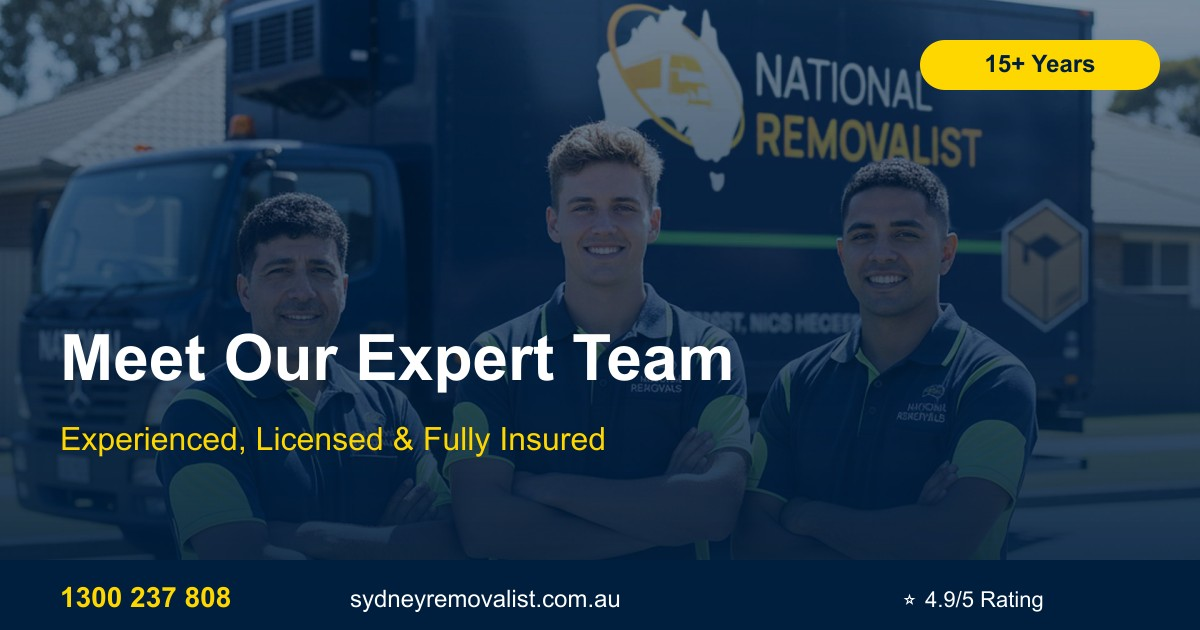
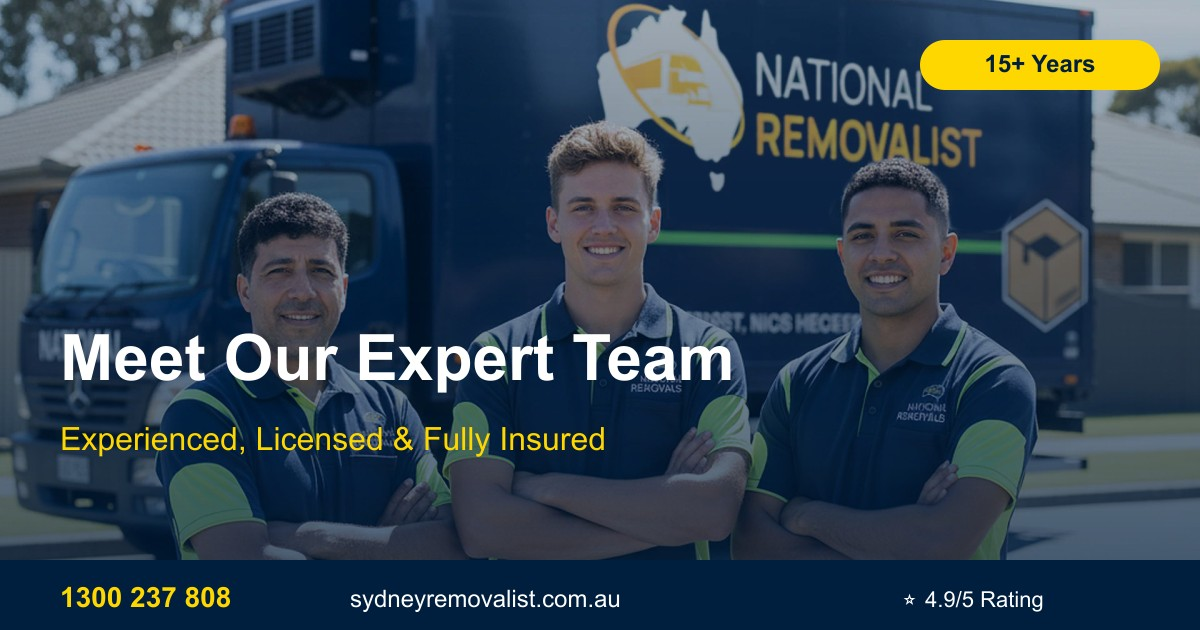
add og images

diff --git a/scripts/generate-blog-og.js b/scripts/generate-blog-og.js
@@ -1,0 +1,80 @@
+const sharp = require('sharp');
+const path = require('path');
+
+const OG_WIDTH = 1200;
+const OG_HEIGHT = 630;
+
+const COLORS = {
+  navy: '#001F3F',
+  yellow: '#FFD700',
+  white: '#FFFFFF'
+};
+
+async function generateBlogOG() {
+  const sourcePath = path.join(__dirname, '..', 'assets', 'removalist', '05.webp');
+  const outputPath = path.join(__dirname, '..', 'public', 'og-blog.jpg');
+
+  console.log('Generating og-blog.jpg...');
+
+  const svg = `
+    <svg width="${OG_WIDTH}" height="${OG_HEIGHT}">
+      <defs>
+        <linearGradient id="overlayGrad" x1="0%" y1="0%" x2="0%" y2="100%">
+          <stop offset="0%" style="stop-color:rgba(0,31,63,0.3);stop-opacity:1" />
+          <stop offset="100%" style="stop-color:rgba(0,31,63,0.75);stop-opacity:1" />
+        </linearGradient>
+      </defs>
+
+      <rect width="${OG_WIDTH}" height="${OG_HEIGHT}" fill="url(#overlayGrad)"/>
+
+      <!-- Badge -->
+      <rect x="920" y="40" width="240" height="50" rx="25" fill="${COLORS.yellow}"/>
+      <text x="1040" y="72" font-family="Arial, sans-serif" font-size="24" font-weight="bold"
+            fill="${COLORS.navy}" text-anchor="middle">Expert Tips</text>
+
+      <!-- Main title -->
+      <text x="60" y="380" font-family="Arial, sans-serif" font-size="64" font-weight="bold"
+            fill="${COLORS.white}" style="text-shadow: 2px 2px 8px rgba(0,0,0,0.8);">
+        Moving Tips and Guides
+      </text>
+
+      <!-- Subtitle -->
+      <text x="60" y="450" font-family="Arial, sans-serif" font-size="32"
+            fill="${COLORS.yellow}" style="text-shadow: 2px 2px 6px rgba(0,0,0,0.8);">
+        Expert Advice from Professionals
+      </text>
+
+      <!-- Bottom bar -->
+      <rect y="560" width="${OG_WIDTH}" height="70" fill="${COLORS.navy}"/>
+      <text x="60" y="607" font-family="Arial, sans-serif" font-size="28" font-weight="bold"
+            fill="${COLORS.yellow}">
+        1300 237 808
+      </text>
+      <text x="350" y="607" font-family="Arial, sans-serif" font-size="24"
+            fill="${COLORS.white}">
+        sydneyremovalist.com.au
+      </text>
+      <text x="900" y="607" font-family="Arial, sans-serif" font-size="22"
+            fill="${COLORS.white}">
+        ⭐ 4.9/5 Rating
+      </text>
+    </svg>
+  `;
+
+  await sharp(sourcePath)
+    .resize(OG_WIDTH, OG_HEIGHT, {
+      fit: 'cover',
+      position: 'center'
+    })
+    .composite([{
+      input: Buffer.from(svg),
+      top: 0,
+      left: 0
+    }])
+    .jpeg({ quality: 90 })
+    .toFile(outputPath);
+
+  console.log('✅ Generated og-blog.jpg');
+}
+
+generateBlogOG().catch(console.error);

diff --git a/scripts/generate-og-images.js b/scripts/generate-og-images.js
@@ -32,18 +32,18 @@ async function generateOGImage(options) {
   console.log(`Generating ${outputName}...`);
 
   try {
-    // Create SVG overlay with text
+    // Create SVG overlay with text (lighter overlay to show image)
     const svg = `
       <svg width="${OG_WIDTH}" height="${OG_HEIGHT}">
         <defs>
-          <!-- Gradient for overlay -->
+          <!-- Gradient for overlay (lighter to show image better) -->
           <linearGradient id="overlayGrad" x1="0%" y1="0%" x2="0%" y2="100%">
-            <stop offset="0%" style="stop-color:rgba(0,31,63,0.5);stop-opacity:1" />
-            <stop offset="100%" style="stop-color:rgba(0,31,63,0.95);stop-opacity:1" />
+            <stop offset="0%" style="stop-color:rgba(0,31,63,0.3);stop-opacity:1" />
+            <stop offset="100%" style="stop-color:rgba(0,31,63,0.75);stop-opacity:1" />
           </linearGradient>
         </defs>
 
-        <!-- Dark overlay for better text contrast -->
+        <!-- Semi-transparent overlay to show background image -->
         <rect width="${OG_WIDTH}" height="${OG_HEIGHT}" fill="url(#overlayGrad)"/>
 
         ${badge ? `

diff --git a/app/locations/[region]/[suburb]/page.tsx b/app/locations/[region]/[suburb]/page.tsx
@@ -57,7 +57,7 @@ export async function generateMetadata({ params }: Props): Promise<Metadata> {
       description: `Expert moving services in ${suburbDetails.name}, ${suburbDetails.region}. Licensed, insured, and ready to help with your move.`,
       type: "website",
       images: [{
-        url: '/og-default.jpg',
+        url: '/og-locations.jpg',
         width: 1200,
         height: 630,
         alt: `Removalist Services in ${suburbDetails.name}`
@@ -101,7 +101,7 @@ export default async function SuburbPage({ params }: Props) {
     '@type': 'LocalBusiness',
     '@id': `${COMPANY_INFO.url}/locations/${region}/${suburb}#localbusiness`,
     name: `Sydney Removalist - ${suburbDetails.name}`,
-    image: `${COMPANY_INFO.url}/og-default.jpg`,
+    image: `${COMPANY_INFO.url}/og-locations.jpg`,
     telephone: COMPANY_INFO.phone,
     email: COMPANY_INFO.email,
     address: {

diff --git a/app/layout.tsx b/app/layout.tsx
@@ -64,7 +64,7 @@ export const metadata: Metadata = {
     description: COMPANY_INFO.description,
     images: [
       {
-        url: '/og-default.jpg',
+        url: '/og-home.jpg',
         width: 1200,
         height: 630,
         alt: COMPANY_INFO.name
@@ -76,7 +76,7 @@ export const metadata: Metadata = {
     title: `${COMPANY_INFO.name} | Professional Moving Services`,
     description: COMPANY_INFO.description,
     creator: '@sydneyremovalist',
-    images: ['/og-default.jpg']
+    images: ['/og-home.jpg']
   },
   robots: {
     index: true,

diff --git a/app/interstate/[slug]/page.tsx b/app/interstate/[slug]/page.tsx
@@ -56,7 +56,7 @@ export async function generateMetadata({ params }: Props): Promise<Metadata> {
       description: destination.description,
       type: "website",
       images: [{
-        url: '/og-default.jpg',
+        url: '/og-interstate.jpg',
         width: 1200,
         height: 630,
         alt: `Interstate Moving: Sydney to ${destination.to}`

diff --git a/app/services/[slug]/page.tsx b/app/services/[slug]/page.tsx
@@ -37,7 +37,7 @@ export async function generateMetadata({ params }: Props): Promise<Metadata> {
       type: "website",
       url: `/services/${slug}`,
       images: [{
-        url: '/og-default.jpg',
+        url: '/og-services.jpg',
         width: 1200,
         height: 630,
         alt: `${service.title} Services in Sydney`

diff --git a/app/interstate/page.tsx b/app/interstate/page.tsx
@@ -22,7 +22,7 @@ export const metadata: Metadata = {
     description: "Reliable long distance moving services across Australia.",
     type: "website",
     images: [{
-      url: '/og-default.jpg',
+      url: '/og-interstate.jpg',
       width: 1200,
       height: 630,
       alt: "Interstate Removalists Sydney"

diff --git a/app/services/page.tsx b/app/services/page.tsx
@@ -25,7 +25,7 @@ export const metadata: Metadata = {
     type: "website",
     url: "/services",
     images: [{
-      url: '/og-default.jpg',
+      url: '/og-services.jpg',
       width: 1200,
       height: 630,
       alt: "Sydney Removalist Professional Moving Services"

diff --git a/app/terms-and-conditions/page.tsx b/app/terms-and-conditions/page.tsx
@@ -14,7 +14,7 @@ export const metadata: Metadata = {
     type: "website",
     url: "/terms-and-conditions",
     images: [{
-      url: '/og-default.jpg',
+      url: '/og-home.jpg',
       width: 1200,
       height: 630,
       alt: "Sydney Removalist Terms and Conditions"

diff --git a/app/about/page.tsx b/app/about/page.tsx
@@ -22,7 +22,7 @@ export const metadata: Metadata = {
     type: "website",
     url: "/about",
     images: [{
-      url: '/og-default.jpg',
+      url: '/og-about.jpg',
       width: 1200,
       height: 630,
       alt: "Sydney Removalist - Professional Moving Services"

diff --git a/app/locations/page.tsx b/app/locations/page.tsx
@@ -27,7 +27,7 @@ export const metadata: Metadata = {
     type: "website",
     url: "/locations",
     images: [{
-      url: '/og-default.jpg',
+      url: '/og-locations.jpg',
       width: 1200,
       height: 630,
       alt: "Sydney Removalist Service Areas Map"

diff --git a/app/privacy-policy/page.tsx b/app/privacy-policy/page.tsx
@@ -14,7 +14,7 @@ export const metadata: Metadata = {
     type: "website",
     url: "/privacy-policy",
     images: [{
-      url: '/og-default.jpg',
+      url: '/og-home.jpg',
       width: 1200,
       height: 630,
       alt: "Sydney Removalist Privacy Policy"
